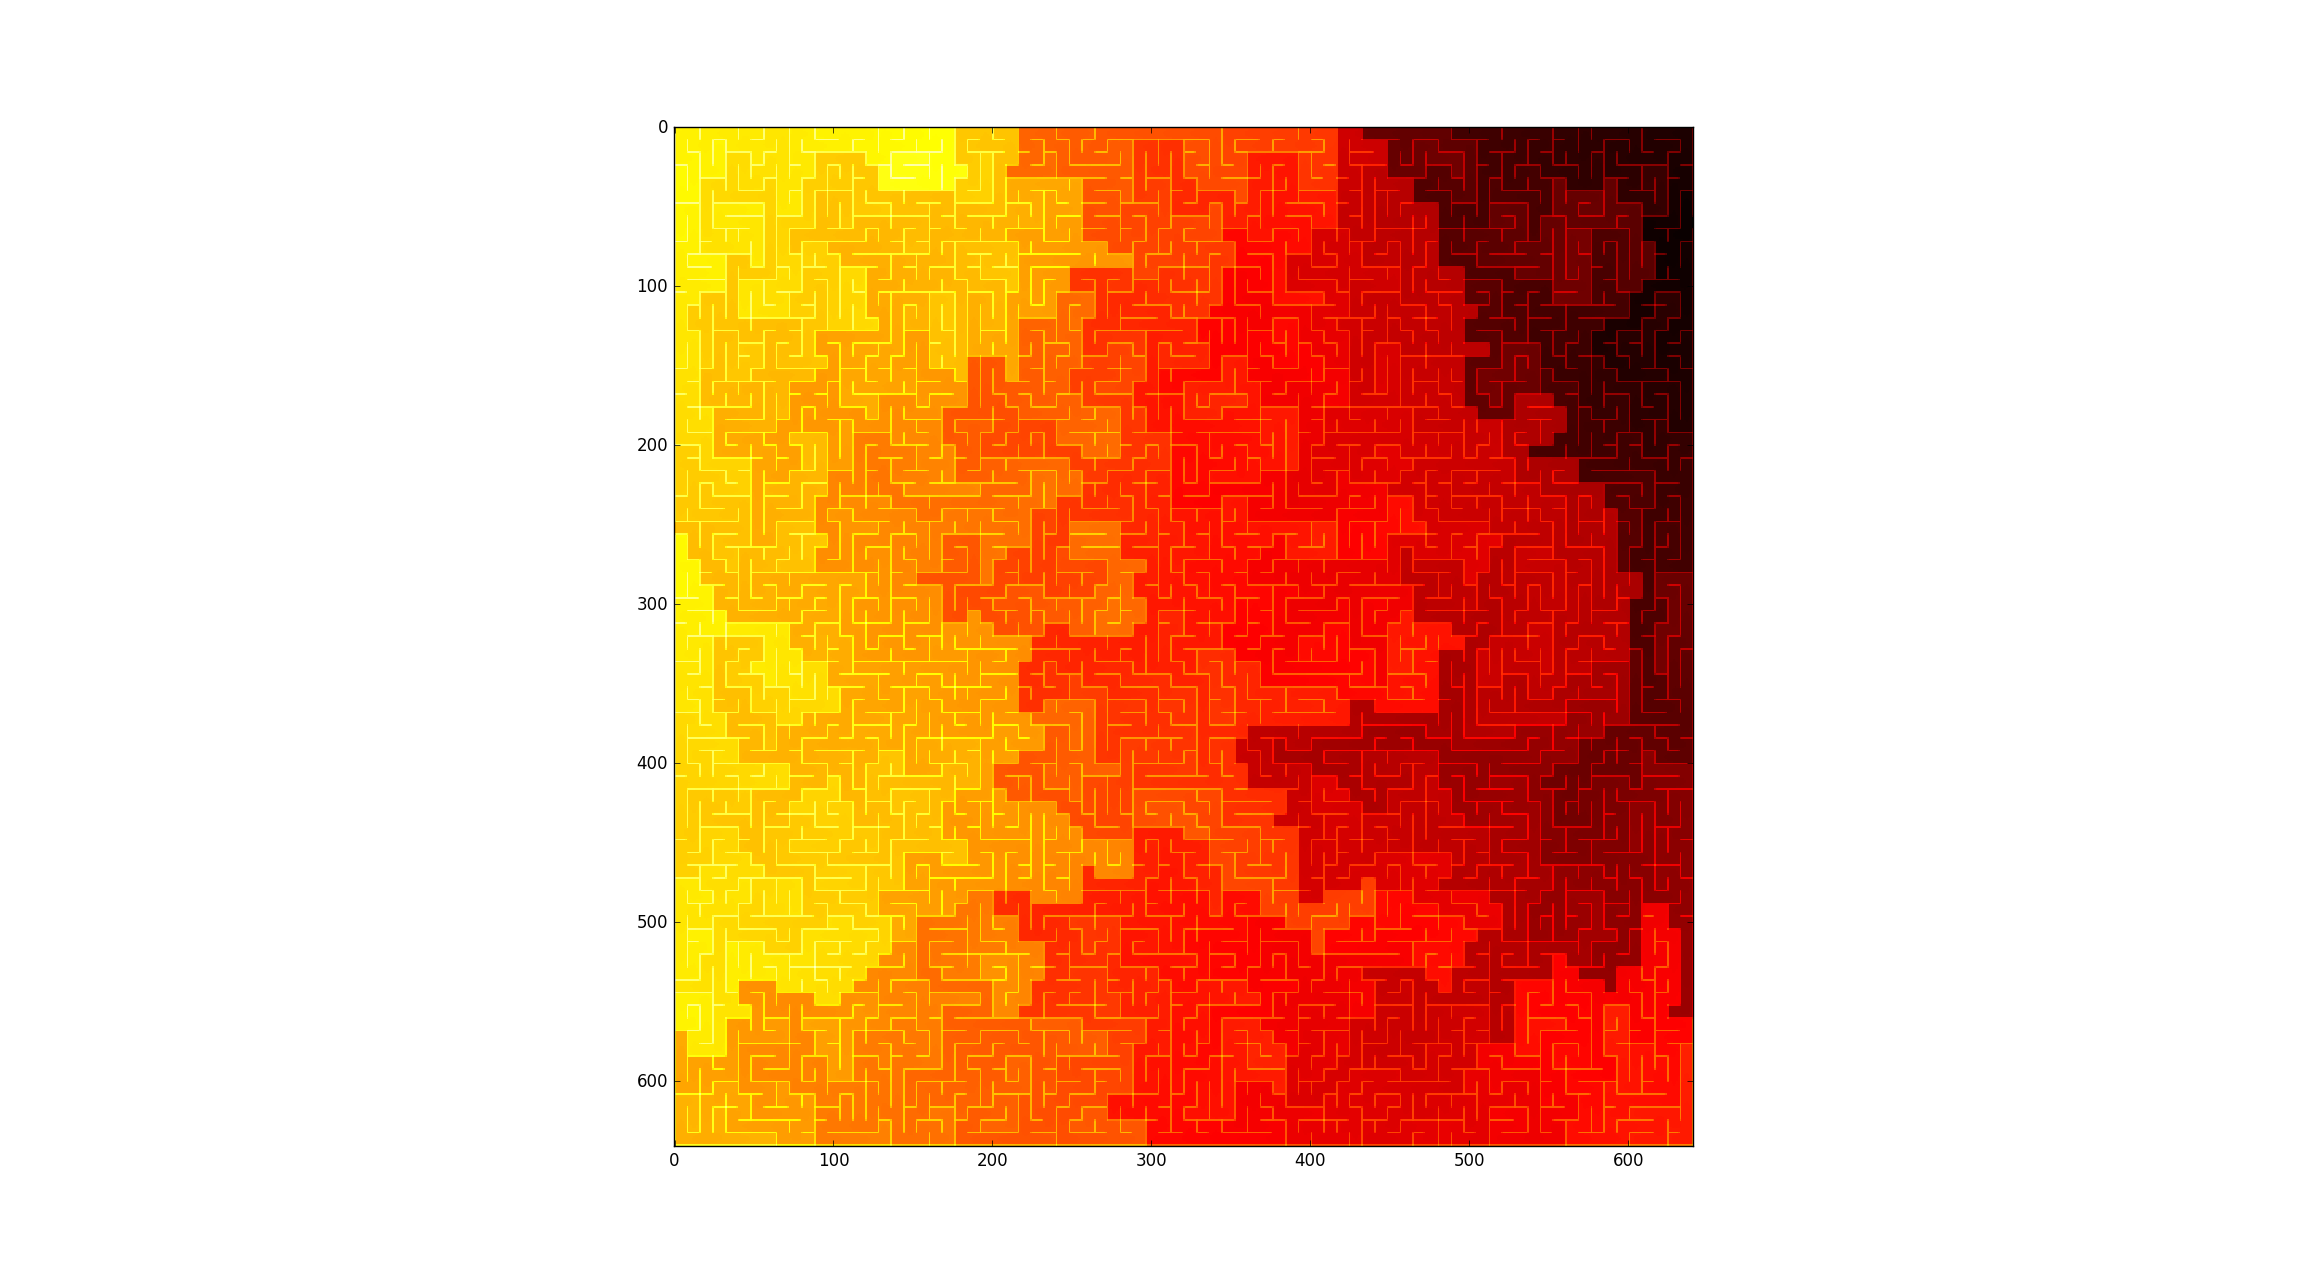
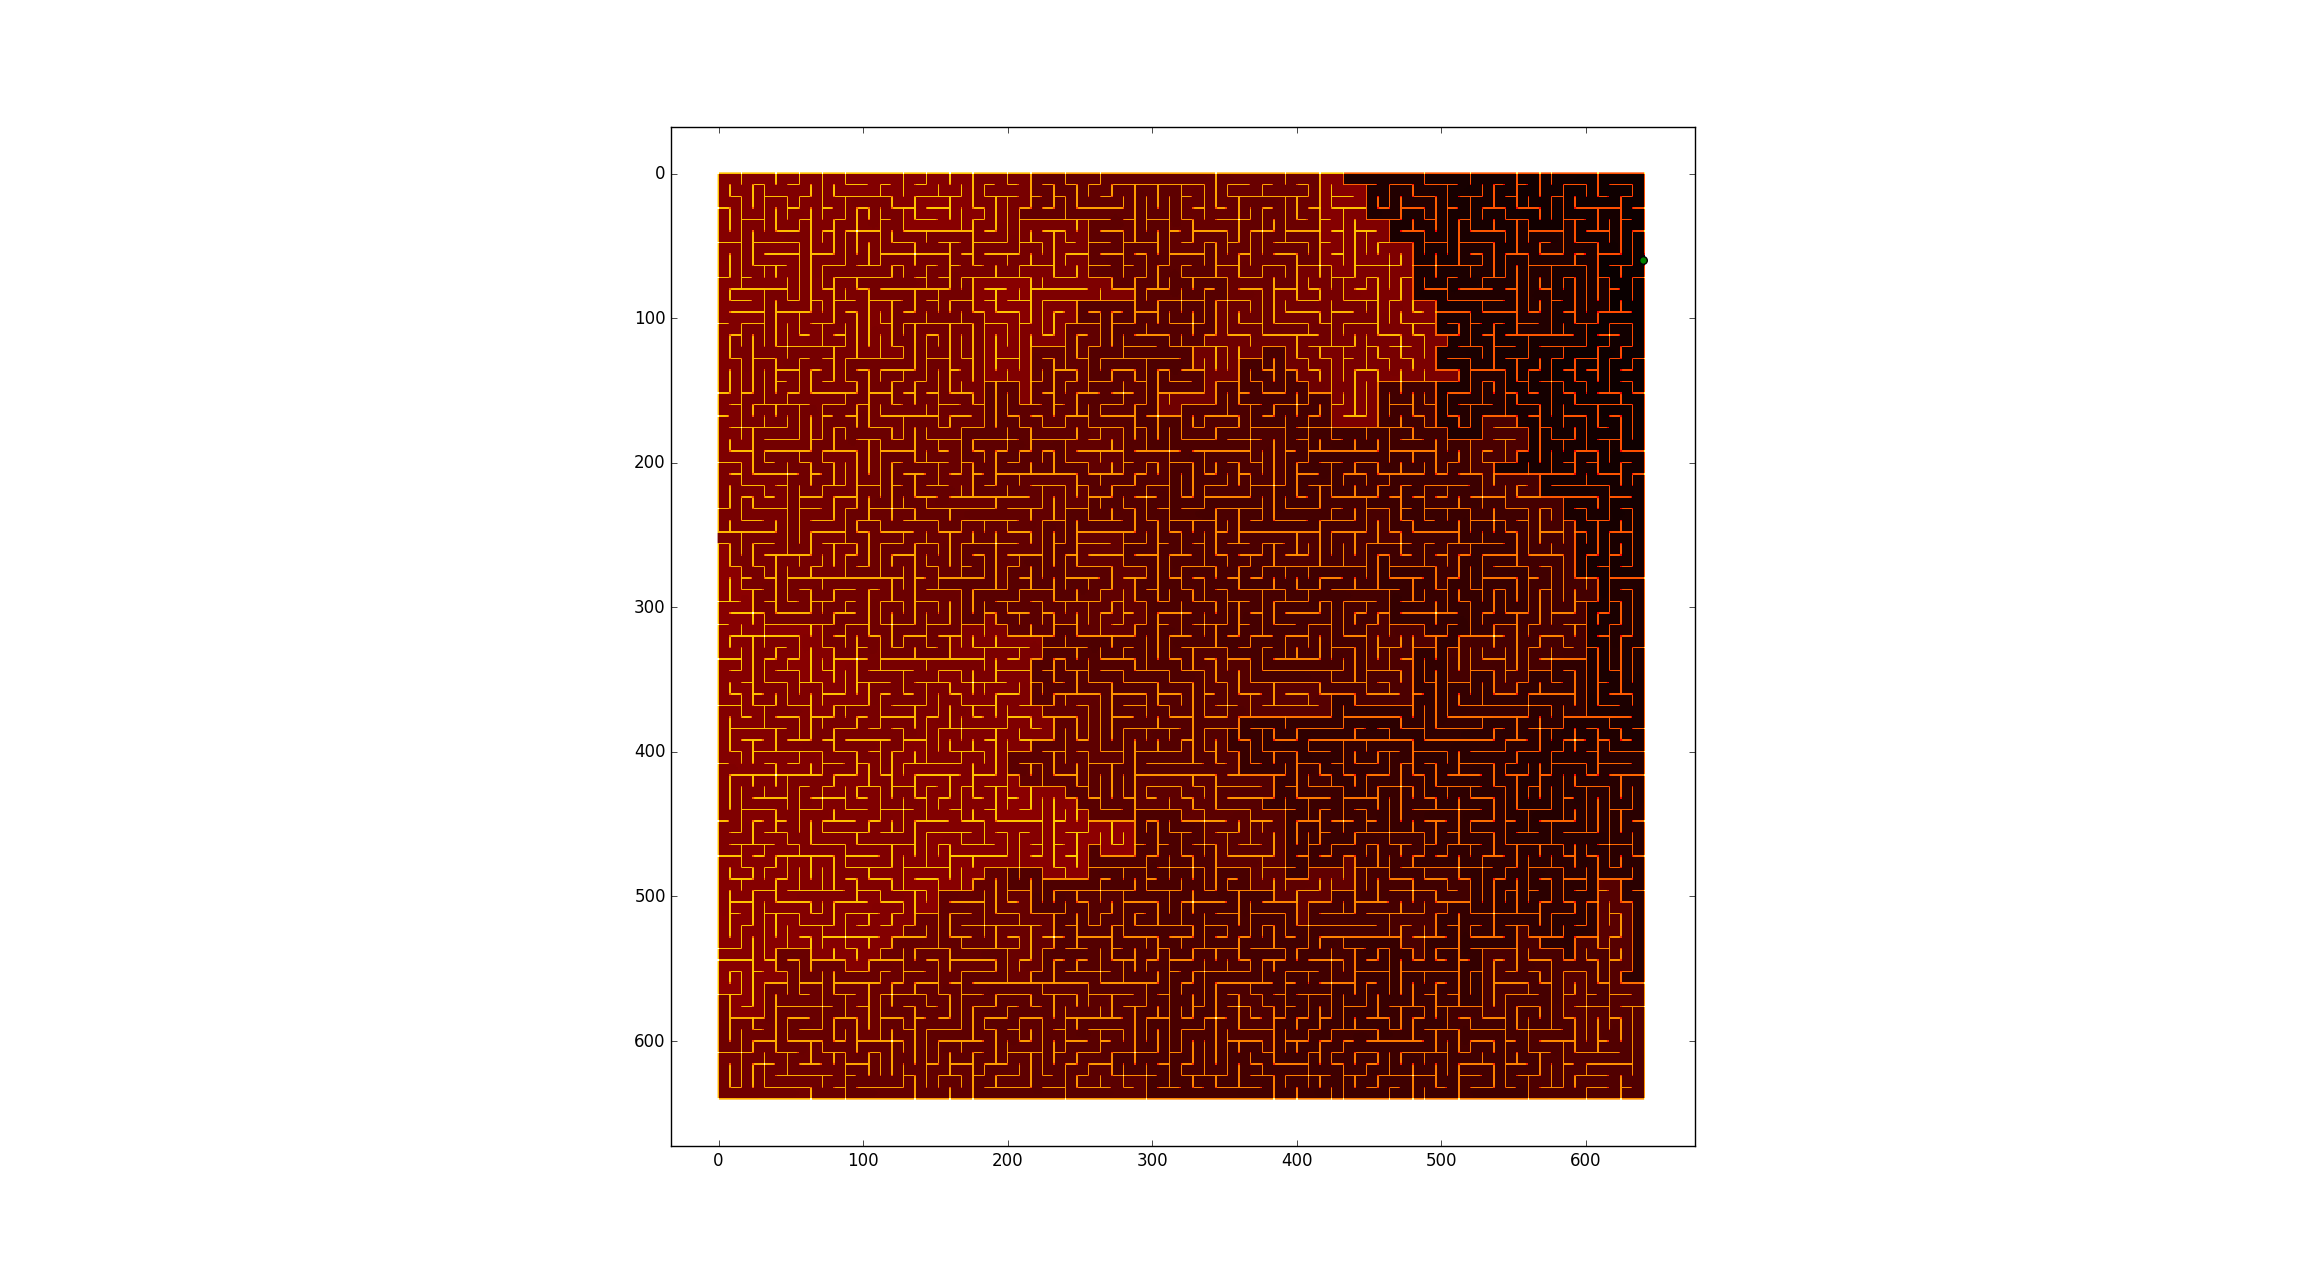
avant nettoyage

diff --git a/code/ani3.py b/code/ani3.py
@@ -13,11 +13,14 @@ import matplotlib.colors as colors
 import classMap
 import scipy.ndimage
 
+from matplotlib.animation import FFMpegWriter
+writer = FFMpegWriter(fps=15, metadata=dict(artist='Me'), bitrate=1800)
+
 #choix du labyrinthe
 name = 'maze'
 
 #chargement de l'image
-img = scipy.ndimage.imread('../res/'+name+'.png',mode='L')
+img = plt.imread('../res/'+name+'.png')[:,:,0]
 plt.imshow(img,interpolation='nearest',cmap='gray') 
 #%noir = 0, blanc=1
 imgnb = np.zeros(img.shape)
@@ -37,7 +40,7 @@ W1 = 1./(0.001+imgnb)
 m1 = classMap.DistanceMap(linit,W1)
 
 #animation du calcul de la vitesse?
-anim_vit = True
+anim_vit = False
 
 if (anim_vit == True):
    fig = plt.figure()
@@ -49,6 +52,7 @@ if (anim_vit == True):
       i += 1
       if (i%100 == 0):
           T = m1.distanceMap()
+          #les murs
           T[((T==np.inf)&(imgnb==0))] = -1
           T_max = np.max(T[(T!=np.inf) & (imgnb!=0)] )
           T_masked = np.ma.masked_array(T,np.isinf(T))
@@ -68,7 +72,7 @@ T1 = m1.distanceMap()
 
 
 
-p0 = [(317,168)] 
+p0 = [(317,168)]
 Vit = T1/np.max(T1)
 W = 1./(0.0001+imgnb) + 10./(0.0001+Vit)
 m = classMap.DistanceMap(p0,W)
@@ -95,8 +99,10 @@ if (anim_ff==True):
           ims.append([im])
     #%
     ani = animation.ArtistAnimation(fig, ims, interval=5, blit=True,repeat_delay=500)
+
     plt.show()
 else:
+    m.calculerDistance()
     T2 = m.distanceMap()
     
 #%% gradient a corriger!
@@ -106,22 +112,25 @@ I,J = m.calculGeodesic((4,175))
 anim_grad = True
 
 if (anim_grad==True):
-    fig,ax =plt.subplots()
+    fig,ax = plt.subplots()
     Y = []
-    J = []
-    ln, = plt.plot([],[],'g')
+    X = []
     
-    def init():
-        ln.set_date([],[])
-        return ln,
+    fig = plt.figure()
+    ims = []
+    im = plt.imshow(imgnb)
+    #%
+    for i in range(len(I)):
+        if (i%10 == 0):
+            ax.imshow(imgnb,interpolation='nearest',cmap='gray')
+            ax.set_ylim((imgnb.shape[0],0))
+            ax.set_xlim((0,imgnb.shape[1]))
+            im = ax.plot(J[0:i],I[0:i],c='g',linewidth=2.5,animated=True)
+            ims.append([im])
+    
+    
         
-    def animate(i):
-        Y = I[0:i]
-        X = J[0:i]
-        ln.set_data(Y,X)
-        return ln,
-        
-    anim3 = animation.FuncAnimation(fig,animate,frames=200,init_func=init,interval=5,blit=True
+    anim3 = animation.FuncAnimation(fig,animate,frames=1000,init_func=init,interval=5,blit=True
     )
     plt.show()
     

diff --git a/code/testFM2.py b/code/testFM2.py
@@ -7,13 +7,13 @@ Created on Wed May  1 18:17:59 2019
 
 import matplotlib.pyplot as plt
 import numpy as np
-import classMap
+from classMap import DistanceMap
 import scipy.ndimage
 
 #%% chargement de l'image
-name = 'maze8'
+name = 'maze3'
 
-img = scipy.ndimage.imread('../res/'+name+'.png',mode='L')
+img = plt.imread('../res/'+name+'.png')[:,:,0]
 plt.imshow(img,interpolation='nearest',cmap='gray') 
 #%noir = 0, blanc=1
 imgnb = np.zeros(img.shape)
@@ -40,7 +40,7 @@ plt.imshow(T1,interpolation='nearest')
 Vit = T1/np.max(T1)
 W = 1./(0.0001+imgnb) + 10./(0.0001+Vit)
 
-p0 = (399,332)
+p0 = (45,3)
 m2  = DistanceMap([p0],W)
 m2.calculerDistance()
 T2 = m2.distanceMap()
@@ -51,7 +51,7 @@ plt.imshow(T2,interpolation='nearest')
 plt.scatter([p0[1]],[p0[0]],c="Green",s=30)
 
 #%
-I,J = m2.calculGeodesic((20,399),alpha=0.05,it_max=300000)
+I,J = m2.calculGeodesic((4,150),alpha=0.05,it_max=300000)
 
 #%% affichage de la géodesique
 fig = plt.figure()
@@ -64,6 +64,3 @@ ax.set_xlim((0,imgnb.shape[1]))
 plt.show()
 
 
-#%%
-
-#np.save('../result/'+name+'.npy',T)

diff --git a/code/animation.py b/code/animation.py
@@ -12,8 +12,7 @@ pour visualiser l'animation
 import numpy as np
 import matplotlib.pyplot as plt
 import matplotlib.animation as animation
-import classMap
-import scipy.ndimage
+from classMap import DistanceMap
 
 F1 = 255*np.ones((50,49))
 noir = 1
@@ -47,12 +46,13 @@ plt.gray()
 plt.imshow(F2,interpolation='nearest')
 #%% affichage rapide
 
-p0 = [(14,14)]
-m = classMap.DistanceMap(p0,Ft2)
+p0 = (14,14)
+m = classMap.DistanceMap([p0],Ft2)
 
 fig,ax = plt.subplots()
 
 plt.plasma()
+
 im = plt.imshow(m.distanceMap())
 #im = plt.imshow(Ft,interpolation='nearest', animated=True,cmap='Greys')
 
@@ -72,7 +72,7 @@ ani.save('ani0.mp4')
 #%% affichage avec superposition sur l'image initiale (trop lent!)
 
 p0 = [(14,14)]
-m = classMap.DistanceMap(p0,Ft)
+m = DistanceMap(p0,Ft)
 
 fig,ax = plt.subplots()
 

diff --git a/code/classMap.py b/code/classMap.py
@@ -232,7 +232,6 @@ class DistanceMap:
                     D[i,j] = np.inf;
         return D
     
-    
 
     def calculGeodesic(self,pi,alpha=0.1,it_max=100000):
         """
@@ -275,7 +274,7 @@ class DistanceMap:
             it += 1
             
         return I,J
-      
+    
     def calculGeodesicInter(self,pi,alpha=0.1,it_max=100000):
         #interpolation de T
         T_inter = interpolate.interp2d(np.arange(self.largeur),np.arange(self.hauteur),self.distanceMap(),kind='linear')

diff --git a/code/animation2.py b/code/animation2.py
@@ -9,8 +9,7 @@ Created on Fri May  3 14:20:15 2019
 import numpy as np
 import matplotlib.pyplot as plt
 import matplotlib.animation as animation
-import classMap
-import scipy.ndimage
+from classMap import DistanceMap
 
 #image blanc=1, noir=0
 F = 255*np.ones((50,50))
